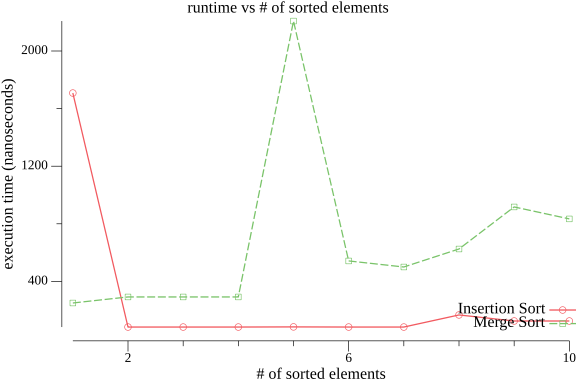
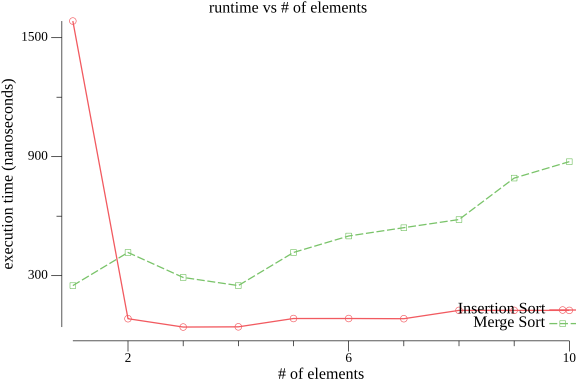
change wording on plot

diff --git a/main.go b/main.go
@@ -16,8 +16,8 @@ func main() {
 	p := plot.New()
 
 	// Setup
-	p.Title.Text = "runtime vs # of sorted elements"
-	p.X.Label.Text = "# of sorted elements"
+	p.Title.Text = "runtime vs # of elements"
+	p.X.Label.Text = "# of elements"
 	p.Y.Label.Text = "execution time (nanoseconds)"
 
 	// store points
